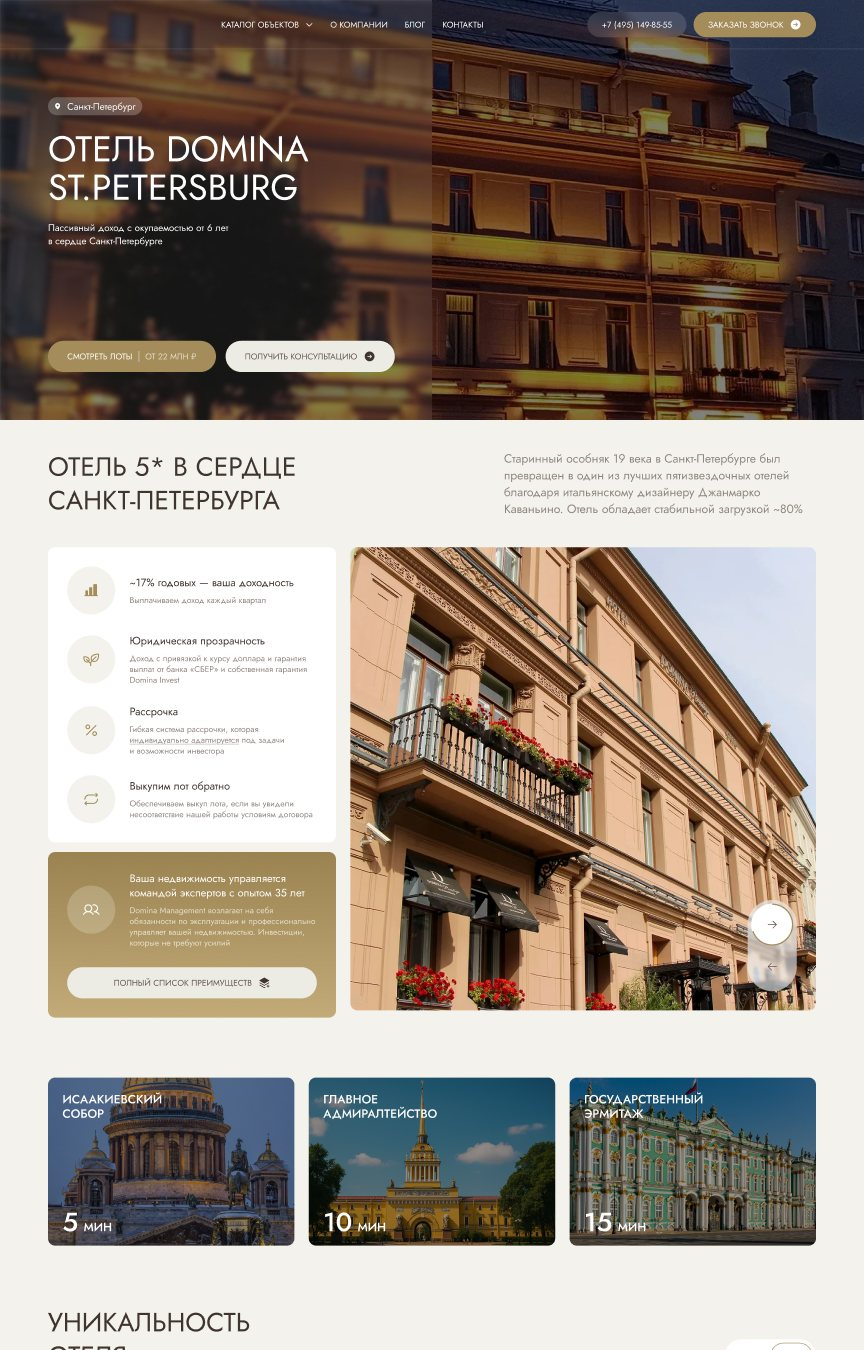
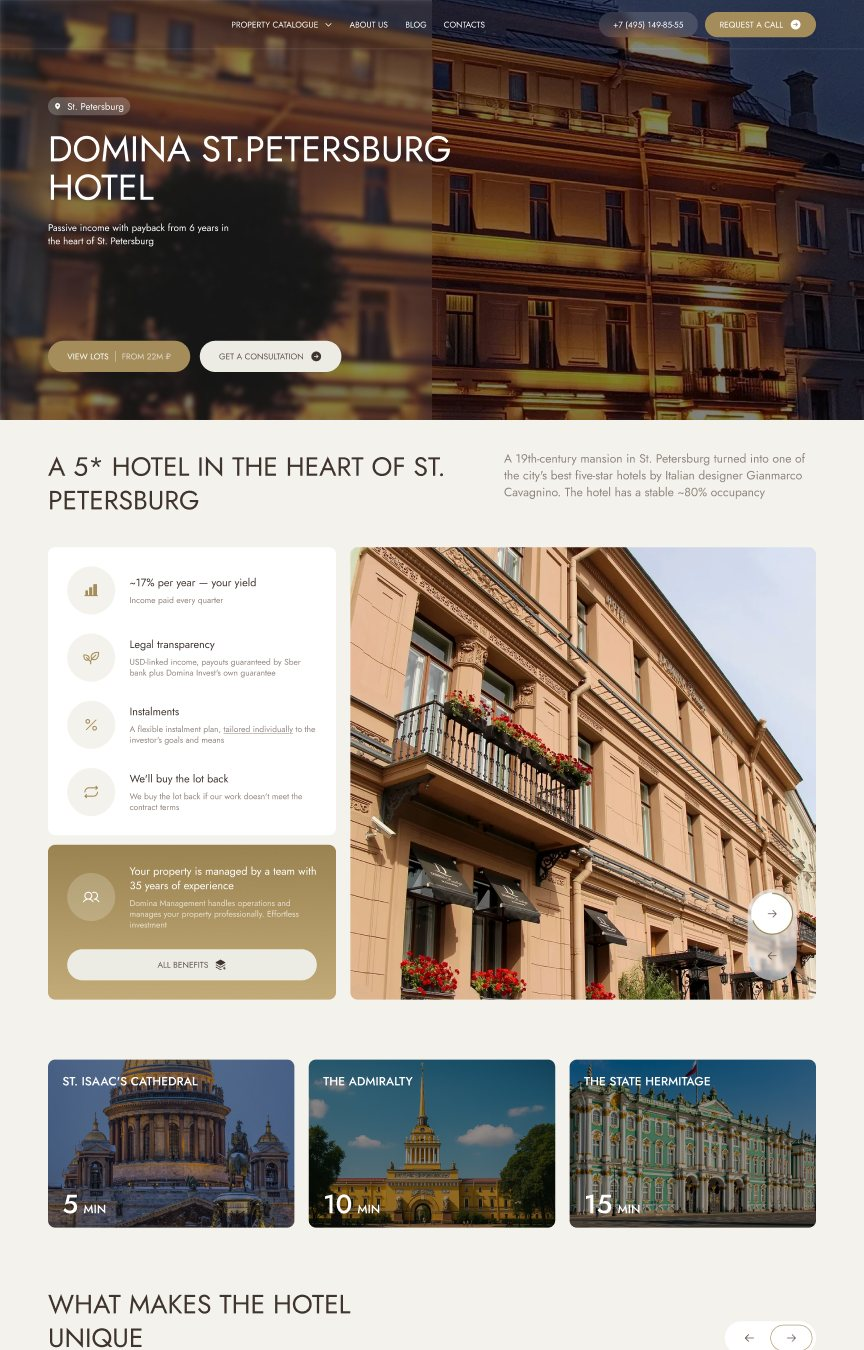
Domina case: English landing screens
Claude-Session: https://claude.ai/code/session_01CvcxoMTCpv2boHEkqs8H7c

diff --git a/case-studies/domina.html b/case-studies/domina.html
@@ -389,8 +389,8 @@
       <p class="dm-lead" data-ru="Для агентов — лендинг с калькулятором дохода, отзывами в формате историй («Зафиксировал номер телефона и забрал 7%») и процессом работы в 4 шага. Для инвесторов — 8 лендингов отелей и комплексов: Санкт-Петербург, Томск, Новосибирск, Агой, Евпатория, Крым, Пушкино и апарт-отель Well.">For real estate brokers: a landing with an earnings calculator, story-style testimonials (“Fixed a phone number and earned 7%”) and a 4-step process. For investors: 8 landings for hotels and complexes in St. Petersburg, Tomsk, Novosibirsk, Agoy, Yevpatoria, Crimea, Pushkino and the Well apart-hotel.</p>
     </div>
     <div class="dm-site-grid">
-      <figure><div class="dm-browser"><span></span><span></span><span></span></div><img src="../assets/img/case-studies/domina/landing.jpg" alt="Real estate broker acquisition landing page" loading="lazy"><figcaption data-ru="Лендинг для агентов: «Зарабатывайте от 1 400 000 ₽ за каждую сделку»">Real estate broker landing: “Earn from 1,400,000 ₽ per deal”</figcaption></figure>
-      <figure><div class="dm-browser"><span></span><span></span><span></span></div><img src="../assets/img/case-studies/domina/hotel-landing.jpg" alt="Domina St. Petersburg investment landing" loading="lazy"><figcaption data-ru="Лендинг объекта: Domina St. Petersburg 5*, окупаемость от 6 лет">Project landing: Domina St. Petersburg 5*, payback from 6 years</figcaption></figure>
+      <figure><div class="dm-browser"><span></span><span></span><span></span></div><img src="../assets/img/case-studies/domina/landing.jpg?v=en" alt="Real estate broker acquisition landing page" loading="lazy"><figcaption data-ru="Лендинг для агентов: «Зарабатывайте от 1 400 000 ₽ за каждую сделку»">Real estate broker landing: “Earn from 1,400,000 ₽ per deal”</figcaption></figure>
+      <figure><div class="dm-browser"><span></span><span></span><span></span></div><img src="../assets/img/case-studies/domina/hotel-landing.jpg?v=en" alt="Domina St. Petersburg investment landing" loading="lazy"><figcaption data-ru="Лендинг объекта: Domina St. Petersburg 5*, окупаемость от 6 лет">Project landing: Domina St. Petersburg 5*, payback from 6 years</figcaption></figure>
     </div>
   </section>
 
